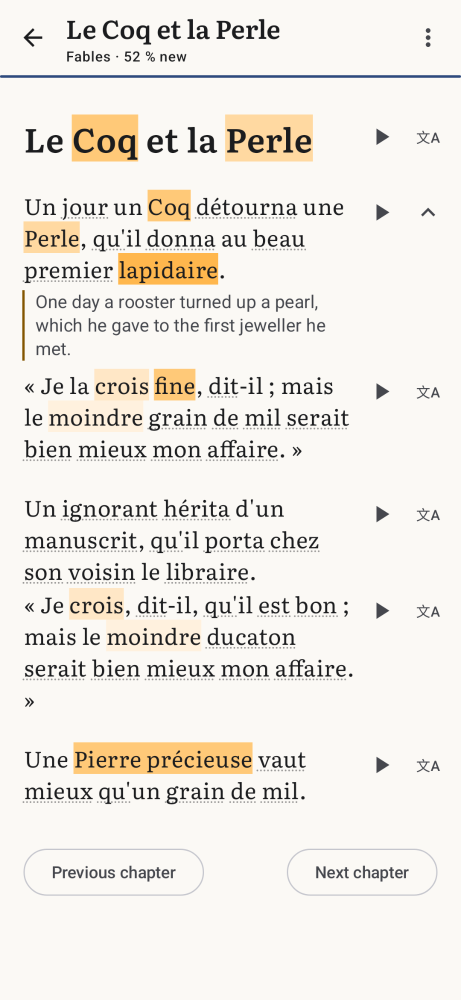
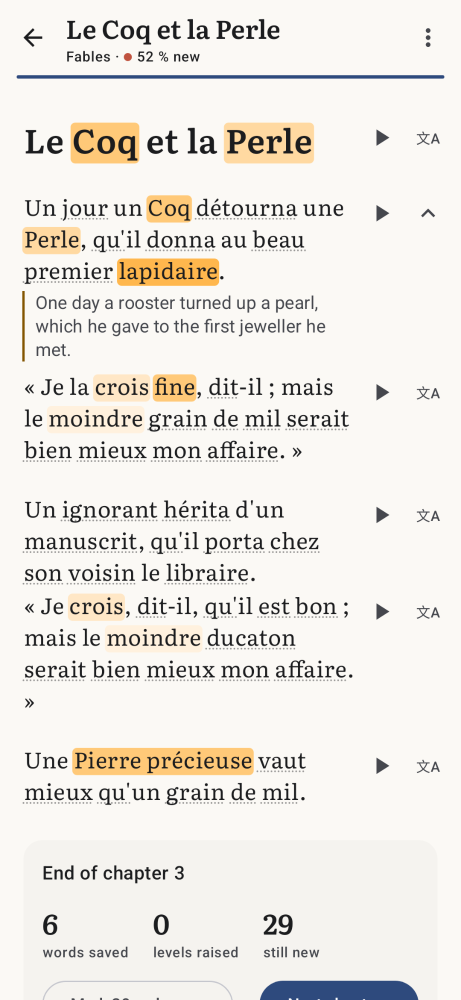
feat(android): rounded highlight marks, a chapter-end card, the difficulty dot and a clearer progress line in the reader
Claude-Session: https://claude.ai/code/session_01JqSuo8NKpRmXNi7JhUvRyo

diff --git a/android/app/src/main/java/io/github/chflick/allreads/ui/reader/ReaderScreen.kt b/android/app/src/main/java/io/github/chflick/allreads/ui/reader/ReaderScreen.kt
@@ -1,5 +1,11 @@
 package io.github.chflick.allreads.ui.reader
 
+import androidx.compose.foundation.layout.Box
+import androidx.compose.foundation.layout.Spacer
+import androidx.compose.foundation.shape.CircleShape
+import androidx.compose.material3.Button
+import androidx.compose.material3.Surface
+import io.github.chflick.allreads.ui.library.difficultyColour
 import androidx.compose.foundation.gestures.detectDragGesturesAfterLongPress
 import androidx.compose.ui.platform.LocalContext
 import androidx.compose.ui.platform.LocalView
@@ -56,7 +62,9 @@ import androidx.compose.runtime.snapshotFlow
 import androidx.compose.ui.Alignment
 import androidx.compose.ui.Modifier
 import androidx.compose.ui.draw.drawBehind
+import androidx.compose.ui.geometry.CornerRadius
 import androidx.compose.ui.geometry.Offset
+import androidx.compose.ui.geometry.Size
 import androidx.compose.ui.graphics.Color
 import androidx.compose.ui.graphics.PathEffect
 import androidx.compose.ui.graphics.StrokeCap
@@ -218,7 +226,7 @@ private fun SentenceRow(
     onSpeak: () -> Unit,
 ) {
     val dark = LocalDarkTheme.current
-    val text = remember(row, dark) { styledText(row, dark) }
+    val text = remember(row) { styledText(row) }
     // Words inside a saved phrase take the phrase's colour, so they get no underline.
     // Names get no underline either: they are not words to learn.
     val newWords = remember(row) { row.content.ranges { it.status == WordStatus.New && it.phrase == null && !it.name } }
@@ -254,6 +262,7 @@ private fun SentenceRow(
                                 val chars = row.content.charRange(tokens)
                                 drawPath(textLayout.getPathForRange(chars.first, chars.last + 1), selectionColor)
                             }
+                            drawHighlights(textLayout, row.content.marks, dark, rowStyle.fontSize.toPx())
                             drawFaintUnderlines(textLayout, newWords, underline)
                         }
                     }
@@ -359,21 +368,38 @@ private fun TranslateButton(shown: Boolean, onClick: () -> Unit) {
     }
 }
 
-/**
- * A sentence's tokens with italic, bold, and a background for words being
- * learned. New words get no fill here; [drawFaintUnderlines] marks them.
- */
-private fun styledText(row: ReaderRow, dark: Boolean): AnnotatedString = buildAnnotatedString {
+/** A sentence's tokens with italic and bold; [drawHighlights] and [drawFaintUnderlines] add the marks. */
+private fun styledText(row: ReaderRow): AnnotatedString = buildAnnotatedString {
     row.content.tokens.forEach { token ->
-        val status = token.status
-        // A saved phrase is coloured as one, spaces between its words too.
-        val colour = token.phrase?.status ?: status
         val style = SpanStyle(
             fontStyle = if (token.italic) FontStyle.Italic else null,
             fontWeight = if (token.bold) FontWeight.Bold else null,
-            background = colour?.takeIf { it != WordStatus.New }?.highlight(dark) ?: Color.Unspecified,
         )
         withStyle(style) { append(token.text) }
+    }
+}
+
+/**
+ * Learning words as rounded marker shapes, one per text line a range covers,
+ * sized to the letters rather than the line, so neighbouring words and lines
+ * stay apart.
+ */
+private fun DrawScope.drawHighlights(layout: TextLayoutResult, marks: List<Pair<IntRange, WordStatus>>, dark: Boolean, fontSize: Float) {
+    val radius = CornerRadius(4.dp.toPx())
+    // Less than half a space, so two marked words side by side stay apart.
+    val pad = 1.dp.toPx()
+    for ((range, status) in marks) {
+        val colour = status.highlight(dark) ?: continue
+        val firstLine = layout.getLineForOffset(range.first)
+        val lastLine = layout.getLineForOffset(range.last)
+        for (line in firstLine..lastLine) {
+            val start = if (line == firstLine) layout.getBoundingBox(range.first).left else layout.getLineLeft(line)
+            val end = if (line == lastLine) layout.getBoundingBox(range.last).right else layout.getLineRight(line)
+            val baseline = layout.getLineBaseline(line)
+            val top = baseline - fontSize * 0.92f
+            val bottom = baseline + fontSize * 0.3f
+            drawRoundRect(colour, Offset(minOf(start, end) - pad, top), Size(kotlin.math.abs(end - start) + 2 * pad, bottom - top), radius)
+        }
     }
 }
 
@@ -402,14 +428,76 @@ private fun DrawScope.drawFaintUnderlines(layout: TextLayoutResult, ranges: List
     }
 }
 
+/** What reading the chapter did: words saved and raised since it was opened, and words still new. */
+internal data class ChapterSummary(val saved: Int, val raised: Int, val stillNew: Int)
+
+/** Counts each word once, by its term key; names are not words to learn. */
+internal fun chapterSummary(rows: List<ReaderRow>, openStatuses: Map<String, WordStatus>): ChapterSummary {
+    val now = rows.flatMap { it.content.tokens }
+        .filter { it.termKey != null && !it.name }
+        .associate { it.termKey!! to (it.status ?: WordStatus.New) }
+    fun rank(status: WordStatus?) = when (status) {
+        is WordStatus.Learning -> status.level.toInt()
+        WordStatus.WellKnown -> 6
+        else -> 0
+    }
+    var saved = 0
+    var raised = 0
+    var stillNew = 0
+    for ((key, status) in now) {
+        val before = openStatuses[key] ?: WordStatus.New
+        when {
+            status == WordStatus.New -> stillNew++
+            // Saved to learn; words marked known in bulk are not "saved".
+            before == WordStatus.New -> if (status is WordStatus.Learning) saved++
+            rank(status) > rank(before) -> raised++
+        }
+    }
+    return ChapterSummary(saved, raised, stillNew)
+}
+
+/** The end of a chapter: what was learned, "mark the rest known" where it is needed, and the next chapter. */
 @Composable
-private fun ChapterButtons(canGoBack: Boolean, canGoOn: Boolean, onPrevious: () -> Unit, onNext: () -> Unit) {
-    Row(
-        Modifier.fillMaxWidth().padding(top = 32.dp, end = 12.dp),
-        horizontalArrangement = Arrangement.SpaceBetween,
+private fun ChapterEnd(
+    chapterNumber: Int,
+    summary: ChapterSummary,
+    canGoBack: Boolean,
+    canGoOn: Boolean,
+    onMarkKnown: () -> Unit,
+    onPrevious: () -> Unit,
+    onNext: () -> Unit,
+) {
+    Surface(
+        color = MaterialTheme.colorScheme.surfaceContainerLow,
+        shape = MaterialTheme.shapes.large,
+        modifier = Modifier.fillMaxWidth().padding(top = 28.dp, end = 12.dp),
     ) {
-        OutlinedButton(onClick = onPrevious, enabled = canGoBack) { Text("Previous chapter") }
-        OutlinedButton(onClick = onNext, enabled = canGoOn) { Text("Next chapter") }
+        Column(Modifier.padding(16.dp), verticalArrangement = Arrangement.spacedBy(12.dp)) {
+            Text("End of chapter $chapterNumber", style = MaterialTheme.typography.titleMedium)
+            Row(horizontalArrangement = Arrangement.spacedBy(20.dp)) {
+                ChapterStat(summary.saved, "words saved")
+                ChapterStat(summary.raised, "levels raised")
+                ChapterStat(summary.stillNew, "still new")
+            }
+            Row(horizontalArrangement = Arrangement.spacedBy(8.dp), verticalAlignment = Alignment.CenterVertically) {
+                if (summary.stillNew > 0) {
+                    OutlinedButton(onClick = onMarkKnown) { Text("Mark ${summary.stillNew} as known") }
+                }
+                Spacer(Modifier.weight(1f))
+                Button(onClick = onNext, enabled = canGoOn) { Text(if (canGoOn) "Next chapter ›" else "Last chapter") }
+            }
+            if (canGoBack) {
+                TextButton(onClick = onPrevious, contentPadding = PaddingValues(0.dp)) { Text("‹ Previous chapter") }
+            }
+        }
+    }
+}
+
+@Composable
+private fun ChapterStat(value: Int, label: String) {
+    Column {
+        Text("$value", style = MaterialTheme.typography.headlineSmall)
+        Text(label, style = MaterialTheme.typography.labelMedium, color = MaterialTheme.colorScheme.onSurfaceVariant)
     }
 }
 
@@ -478,11 +566,14 @@ fun ReaderContent(
                             // The chapter's share of new words, next to the book's title.
                             val newShare = remember(state.rows) { chapterNewPercent(state.rows) }
                             state.book?.let {
-                                Text(
-                                    it.title + (newShare?.let { p -> " · ${newPercentText(p)} new" } ?: ""),
-                                    style = MaterialTheme.typography.labelMedium,
-                                    maxLines = 1,
-                                )
+                                Row(verticalAlignment = Alignment.CenterVertically) {
+                                    Text("${it.title}${if (newShare != null) " · " else ""}", style = MaterialTheme.typography.labelMedium, maxLines = 1)
+                                    // The same green, amber or red dot as on the library card.
+                                    newShare?.let { p ->
+                                        Box(Modifier.padding(end = 4.dp).size(7.dp).background(difficultyColour(p), CircleShape))
+                                        Text("${newPercentText(p)} new", style = MaterialTheme.typography.labelMedium, maxLines = 1)
+                                    }
+                                }
                             }
                         }
                     },
@@ -515,12 +606,13 @@ fun ReaderContent(
                         if (state.rows.isEmpty()) 0f else ((last + 1).toFloat() / state.rows.size).coerceIn(0f, 1f)
                     }
                 }
+                // Inset and with a visible track, so it reads as progress, not as a divider.
                 LinearProgressIndicator(
                     progress = { progress },
-                    modifier = Modifier.fillMaxWidth().height(2.dp),
+                    modifier = Modifier.fillMaxWidth().padding(horizontal = 14.dp).height(3.dp),
                     drawStopIndicator = {},
                     gapSize = 0.dp,
-                    trackColor = MaterialTheme.colorScheme.onSurface.copy(alpha = 0.08f),
+                    trackColor = MaterialTheme.colorScheme.onSurface.copy(alpha = 0.1f),
                 )
             }
         },
@@ -547,9 +639,12 @@ fun ReaderContent(
                 )
             }
             item {
-                ChapterButtons(
+                ChapterEnd(
+                    chapterNumber = state.chapterIndex.toInt() + 1,
+                    summary = remember(state.rows, state.openStatuses) { chapterSummary(state.rows, state.openStatuses) },
                     canGoBack = state.chapterIndex > 0u,
                     canGoOn = state.book?.let { state.chapterIndex + 1u < it.chapterCount } ?: false,
+                    onMarkKnown = { actions.onMarkRestKnown(0) },
                     onPrevious = actions.onPreviousChapter,
                     onNext = actions.onNextChapter,
                 )

diff --git a/android/app/src/main/java/io/github/chflick/allreads/reader/ReaderText.kt b/android/app/src/main/java/io/github/chflick/allreads/reader/ReaderText.kt
@@ -3,6 +3,7 @@ package io.github.chflick.allreads.reader
 import java.net.URLEncoder
 import uniffi.allreads_ffi.ChapterBlock
 import uniffi.allreads_ffi.Token
+import uniffi.allreads_ffi.WordStatus
 
 /**
  * A run of tokens with the character offset where each one starts, so a tap
@@ -37,6 +38,32 @@ class TokenText(val tokens: List<Token>) {
         tokens.indices
             .filter { matches(tokens[it]) && tokens[it].text.isNotEmpty() }
             .map { starts[it] until starts[it] + tokens[it].text.length }
+
+    /**
+     * The character ranges to mark in a level colour, with the level: learning
+     * words, and saved phrases as one range (spaces between their words too).
+     */
+    val marks: List<Pair<IntRange, WordStatus>> by lazy {
+        val runs = mutableListOf<Pair<IntRange, WordStatus>>()
+        var lastPhrase: UInt? = null
+        tokens.forEachIndexed { i, token ->
+            val status = token.phrase?.status ?: token.status
+            if (status !is WordStatus.Learning || token.text.isEmpty()) {
+                lastPhrase = null
+                return@forEachIndexed
+            }
+            val range = starts[i] until starts[i] + token.text.length
+            val phrase = token.phrase?.id
+            if (phrase != null && phrase == lastPhrase && runs.isNotEmpty()) {
+                val (previous, level) = runs.removeAt(runs.lastIndex)
+                runs += (previous.first..range.last) to level
+            } else {
+                runs += range to status
+            }
+            lastPhrase = phrase
+        }
+        runs
+    }
 
     /** The tokens of the saved phrase that token `index` is part of, or null if none. */
     fun phraseRange(index: Int): IntRange? {

diff --git a/android/app/src/main/java/io/github/chflick/allreads/ui/reader/ReaderViewModel.kt b/android/app/src/main/java/io/github/chflick/allreads/ui/reader/ReaderViewModel.kt
@@ -80,6 +80,8 @@ data class ReaderState(
     val levelChange: LevelChange? = null,
     /** Words just marked known, offered for undo in a snackbar. */
     val markedKnown: MarkedKnown? = null,
+    /** Each word's status when the chapter was opened, for the chapter-end summary. */
+    val openStatuses: Map<String, WordStatus> = emptyMap(),
     /** Set when read-aloud found no voice for the book's language; the screen offers the TTS settings. */
     val noVoice: Boolean = false,
 )
@@ -152,6 +154,9 @@ class ReaderViewModel(private val services: Services) : ViewModel() {
                         chapterIndex = index,
                         chapterTitle = titles.getOrNull(index.toInt()),
                         rows = readerRows(chapter.blocks),
+                        openStatuses = chapter.blocks.flatMap { it.tokens }
+                            .mapNotNull { t -> t.termKey?.let { key -> t.status?.let { key to it } } }
+                            .toMap(),
                         startBlock = startBlock,
                         translations = emptyMap(),
                     )

diff --git a/android/app/src/main/java/io/github/chflick/allreads/ui/library/LibraryScreen.kt b/android/app/src/main/java/io/github/chflick/allreads/ui/library/LibraryScreen.kt
@@ -153,12 +153,14 @@ private fun BookSummary.chapterLine(): String =
 internal fun DifficultyLine(difficulty: BookDifficulty) {
     if (difficulty.words == 0uL) return
     val percent = difficulty.newPercent
-    val colour = when {
-        percent <= 5.0 -> Color(0xFF4F8A3B)
-        percent <= 12.0 -> Color(0xFFD39A2C)
-        else -> Color(0xFFC0533F)
-    }
-    DotLabel(colour, "${newPercentText(percent)} new words")
+    DotLabel(difficultyColour(percent), "${newPercentText(percent)} new words")
+}
+
+/** Green up to 5 % new words (a good level to learn from), amber up to 12 %, red beyond. */
+internal fun difficultyColour(percent: Double): Color = when {
+    percent <= 5.0 -> Color(0xFF4F8A3B)
+    percent <= 12.0 -> Color(0xFFD39A2C)
+    else -> Color(0xFFC0533F)
 }
 
 /** "4 %", or "<1 %" for a few new words in a long book. */
